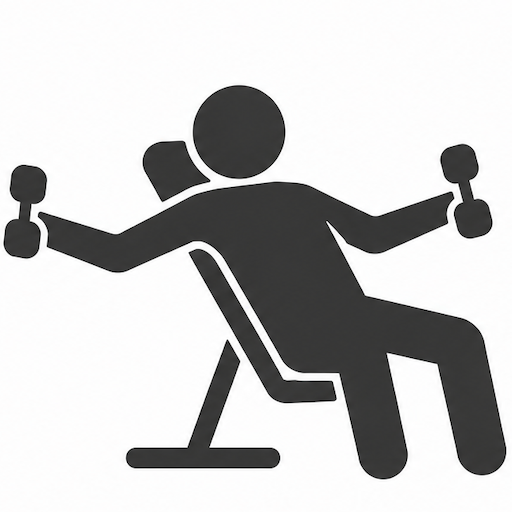
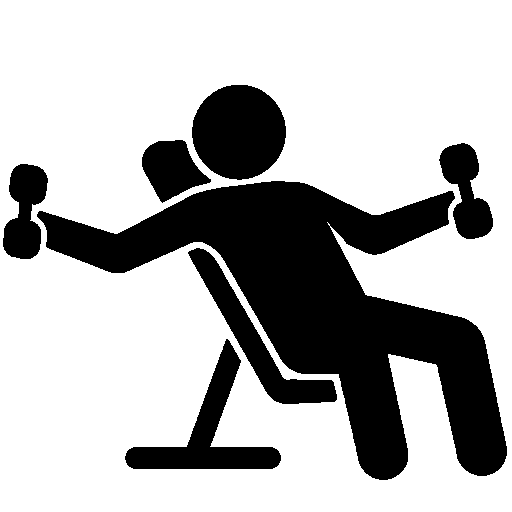
feat(workout): dark & light exercise images

Changed region(s): [[0.0, 0.1562, 1.0, 0.9375]]

diff --git a/src/app/tabs/training/pages/workout-detail/components/workout-units.component.ts b/src/app/tabs/training/pages/workout-detail/components/workout-units.component.ts
@@ -1,4 +1,12 @@
-import { ChangeDetectionStrategy, Component, inject, input, viewChild } from '@angular/core';
+import {
+  ChangeDetectionStrategy,
+  Component,
+  HostListener,
+  inject,
+  input,
+  signal,
+  viewChild,
+} from '@angular/core';
 import { type ItemReorderEventDetail } from '@ionic/angular';
 import {
   IonIcon,
@@ -60,7 +68,7 @@ const ION_COMPONENTS = [
                   @if (exerciseWithImage(item.name)) {
                     <img
                       class="exercise-image"
-                      [src]="'assets/images/exercises/' + item.name + '.png'"
+                      [src]="'assets/images/exercises' + darkPath() + '/' + item.name + '.png'"
                       width="24"
                       height="24"
                     />
@@ -93,6 +101,18 @@ export class WorkoutUnitsComponent {
   private editService = inject(SortingItemsService);
   isEditing = this.editService.isEditing;
   itemsList = viewChild.required(IonList);
+
+  darkPath = signal<string>('');
+
+  @HostListener('window:matchMedia("(prefers-color-scheme: dark)").change')
+  onThemeChange(): void {
+    this.checkTheme();
+  }
+
+  checkTheme(): void {
+    const preferDark = window.matchMedia('(prefers-color-scheme: dark)').matches;
+    this.darkPath.set(preferDark ? '-white' : '');
+  }
 
   handleReorder(event: CustomEvent<ItemReorderEventDetail>): void {
     const from = event.detail.from;
